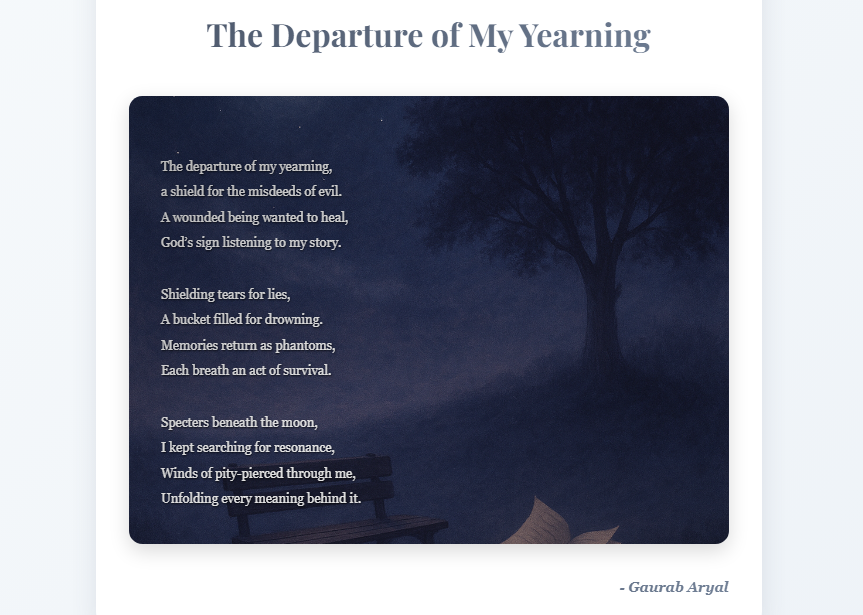
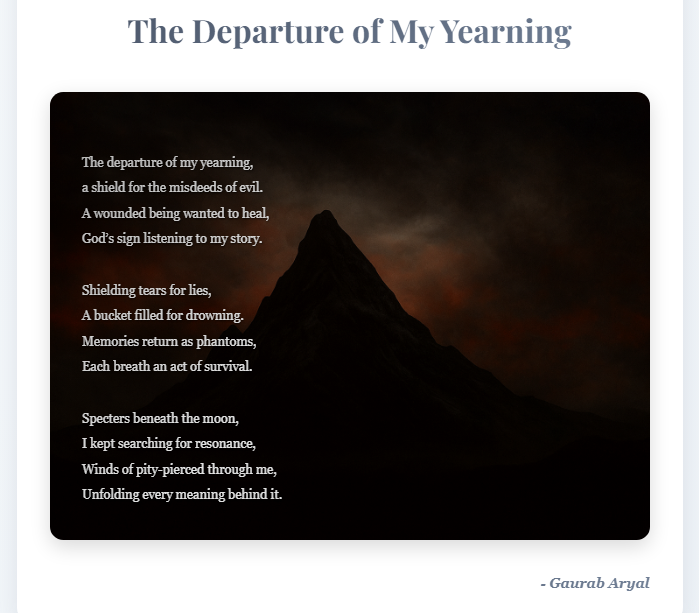
Update README and CSS for improved visuals and loading screen

diff --git a/css/styles.css b/css/styles.css
@@ -29,7 +29,7 @@
     --font-heading: 'Playfair Display', serif;
 
     --shared-header-image: url('../images/front_page.png');
-    --background-poem-wrapper: url('../images/poem_wrapper.jpeg');
+    --background-poem-wrapper: url('../images/wrapper.jpeg');
 }
 
 /* Smooth scrolling for the entire page */

diff --git a/css/poem.css b/css/poem.css
@@ -11,7 +11,7 @@
     --font-family: 'Georgia', serif;
     --font-heading: 'Playfair Display', serif;
 
-    --background-poem : url('../images/header.png');
+    --background-poem : url('../images/front_page.png');
 }
 
 html {

diff --git a/README.MD b/README.MD
@@ -18,9 +18,8 @@ Project Link: [https://gaurab-arl.github.io/example-poem-site/](https://gaurab-a
 ![Poem Page](README_IMAGES/individual.png)
 *Beautiful poem display with background imagery*
 
-### Interactive Features
-![Category Filter](README_IMAGES/category.png)
-*Smooth category filtering with animations*
+### Loading Screen
+![Loading Screen](README_IMAGES/loading.png)
 
 ---
 
